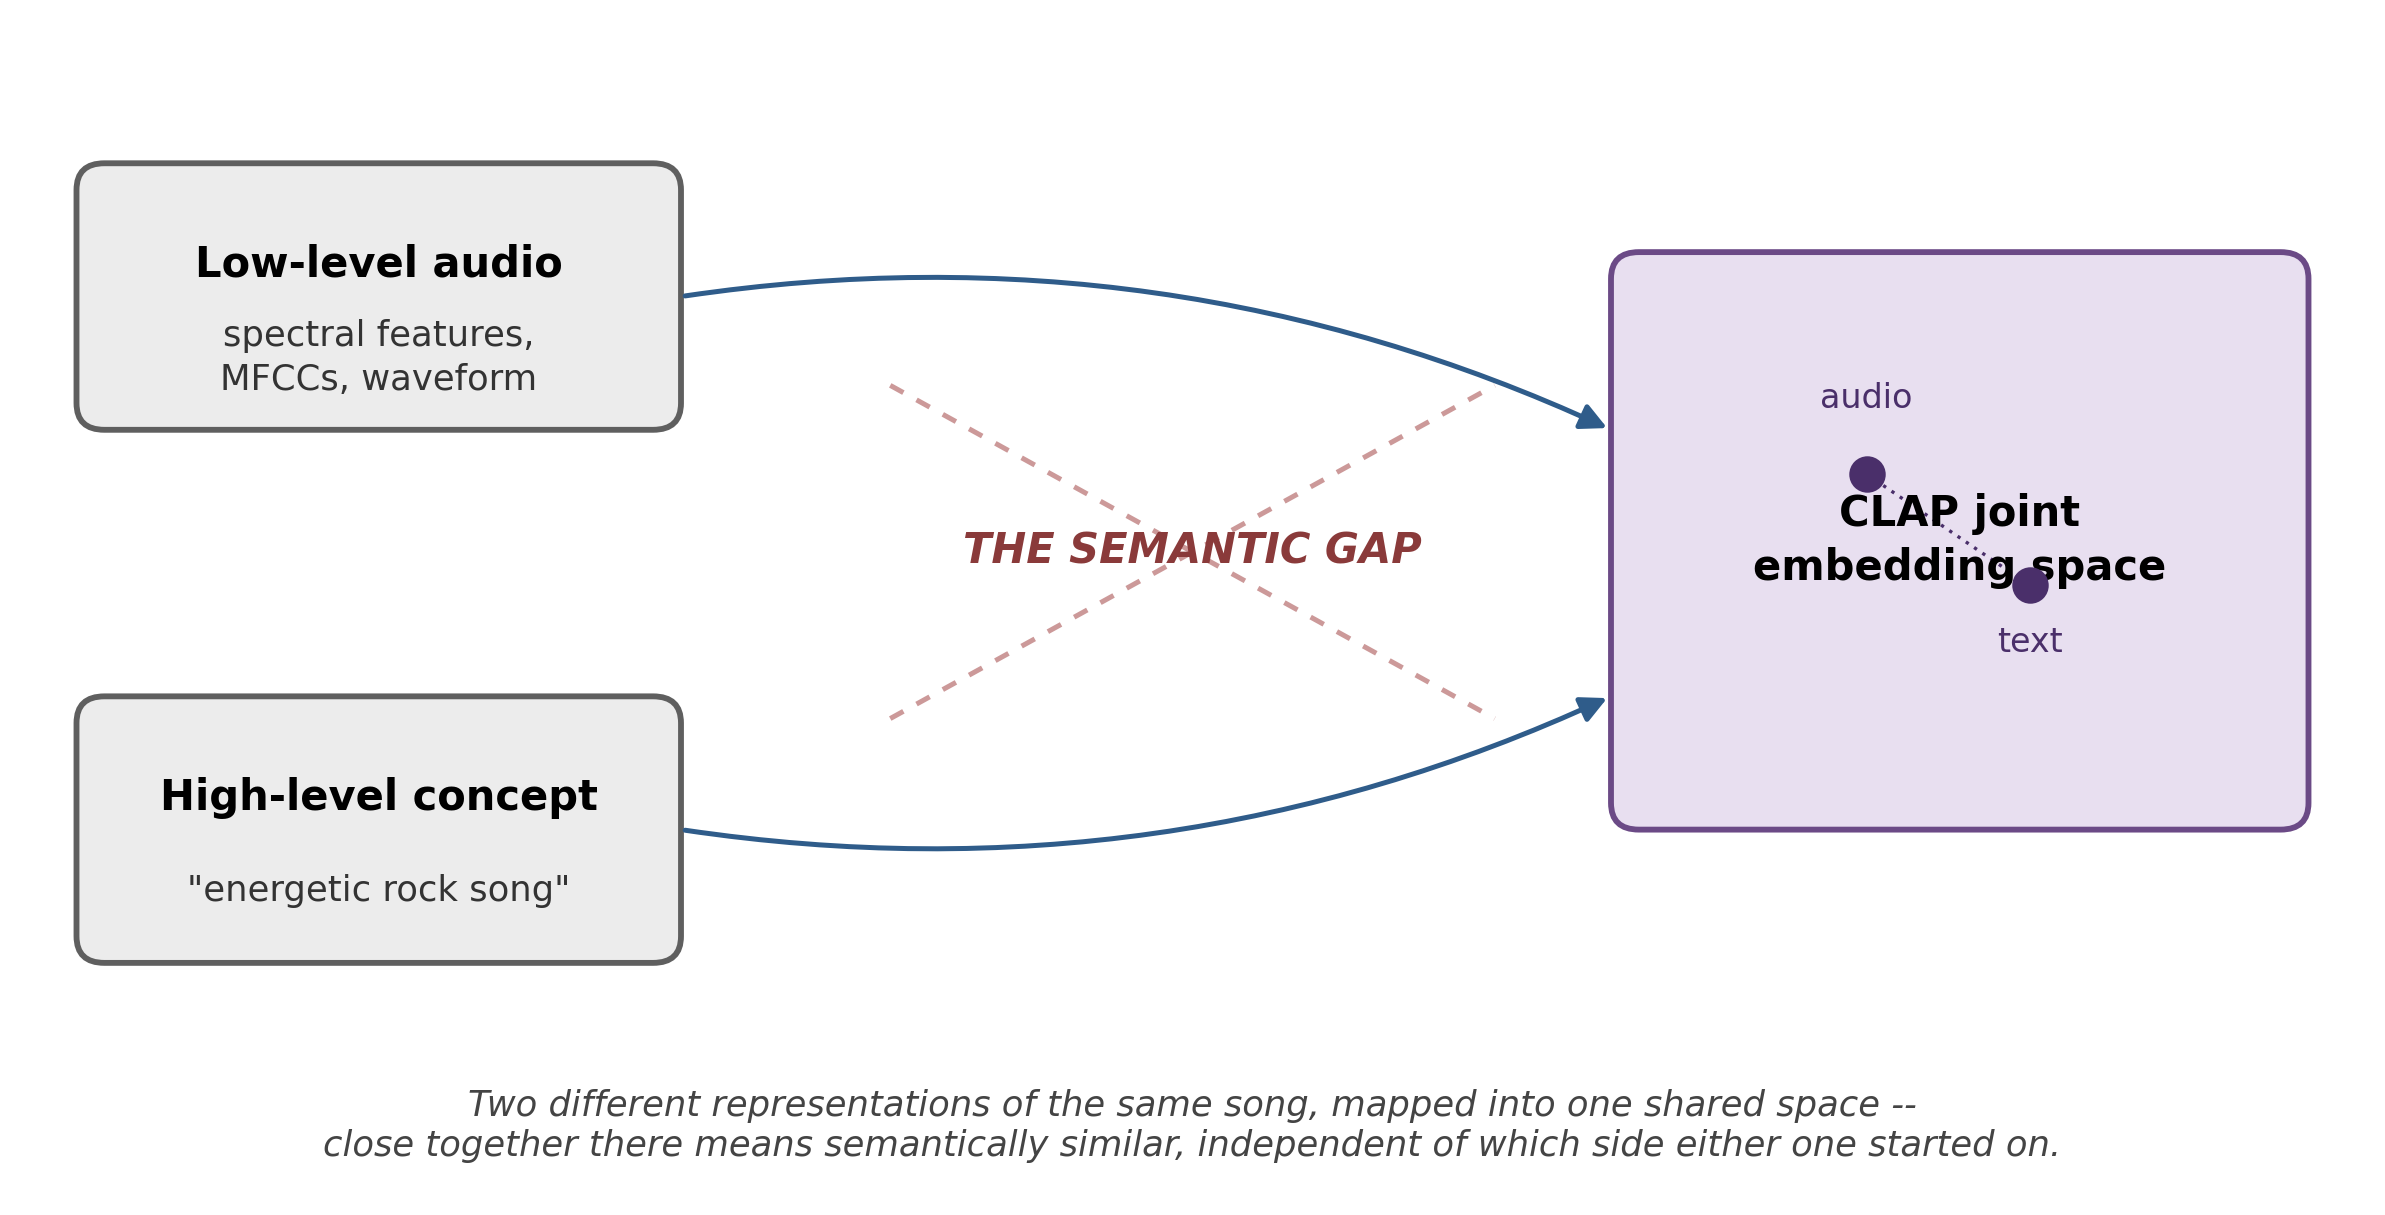
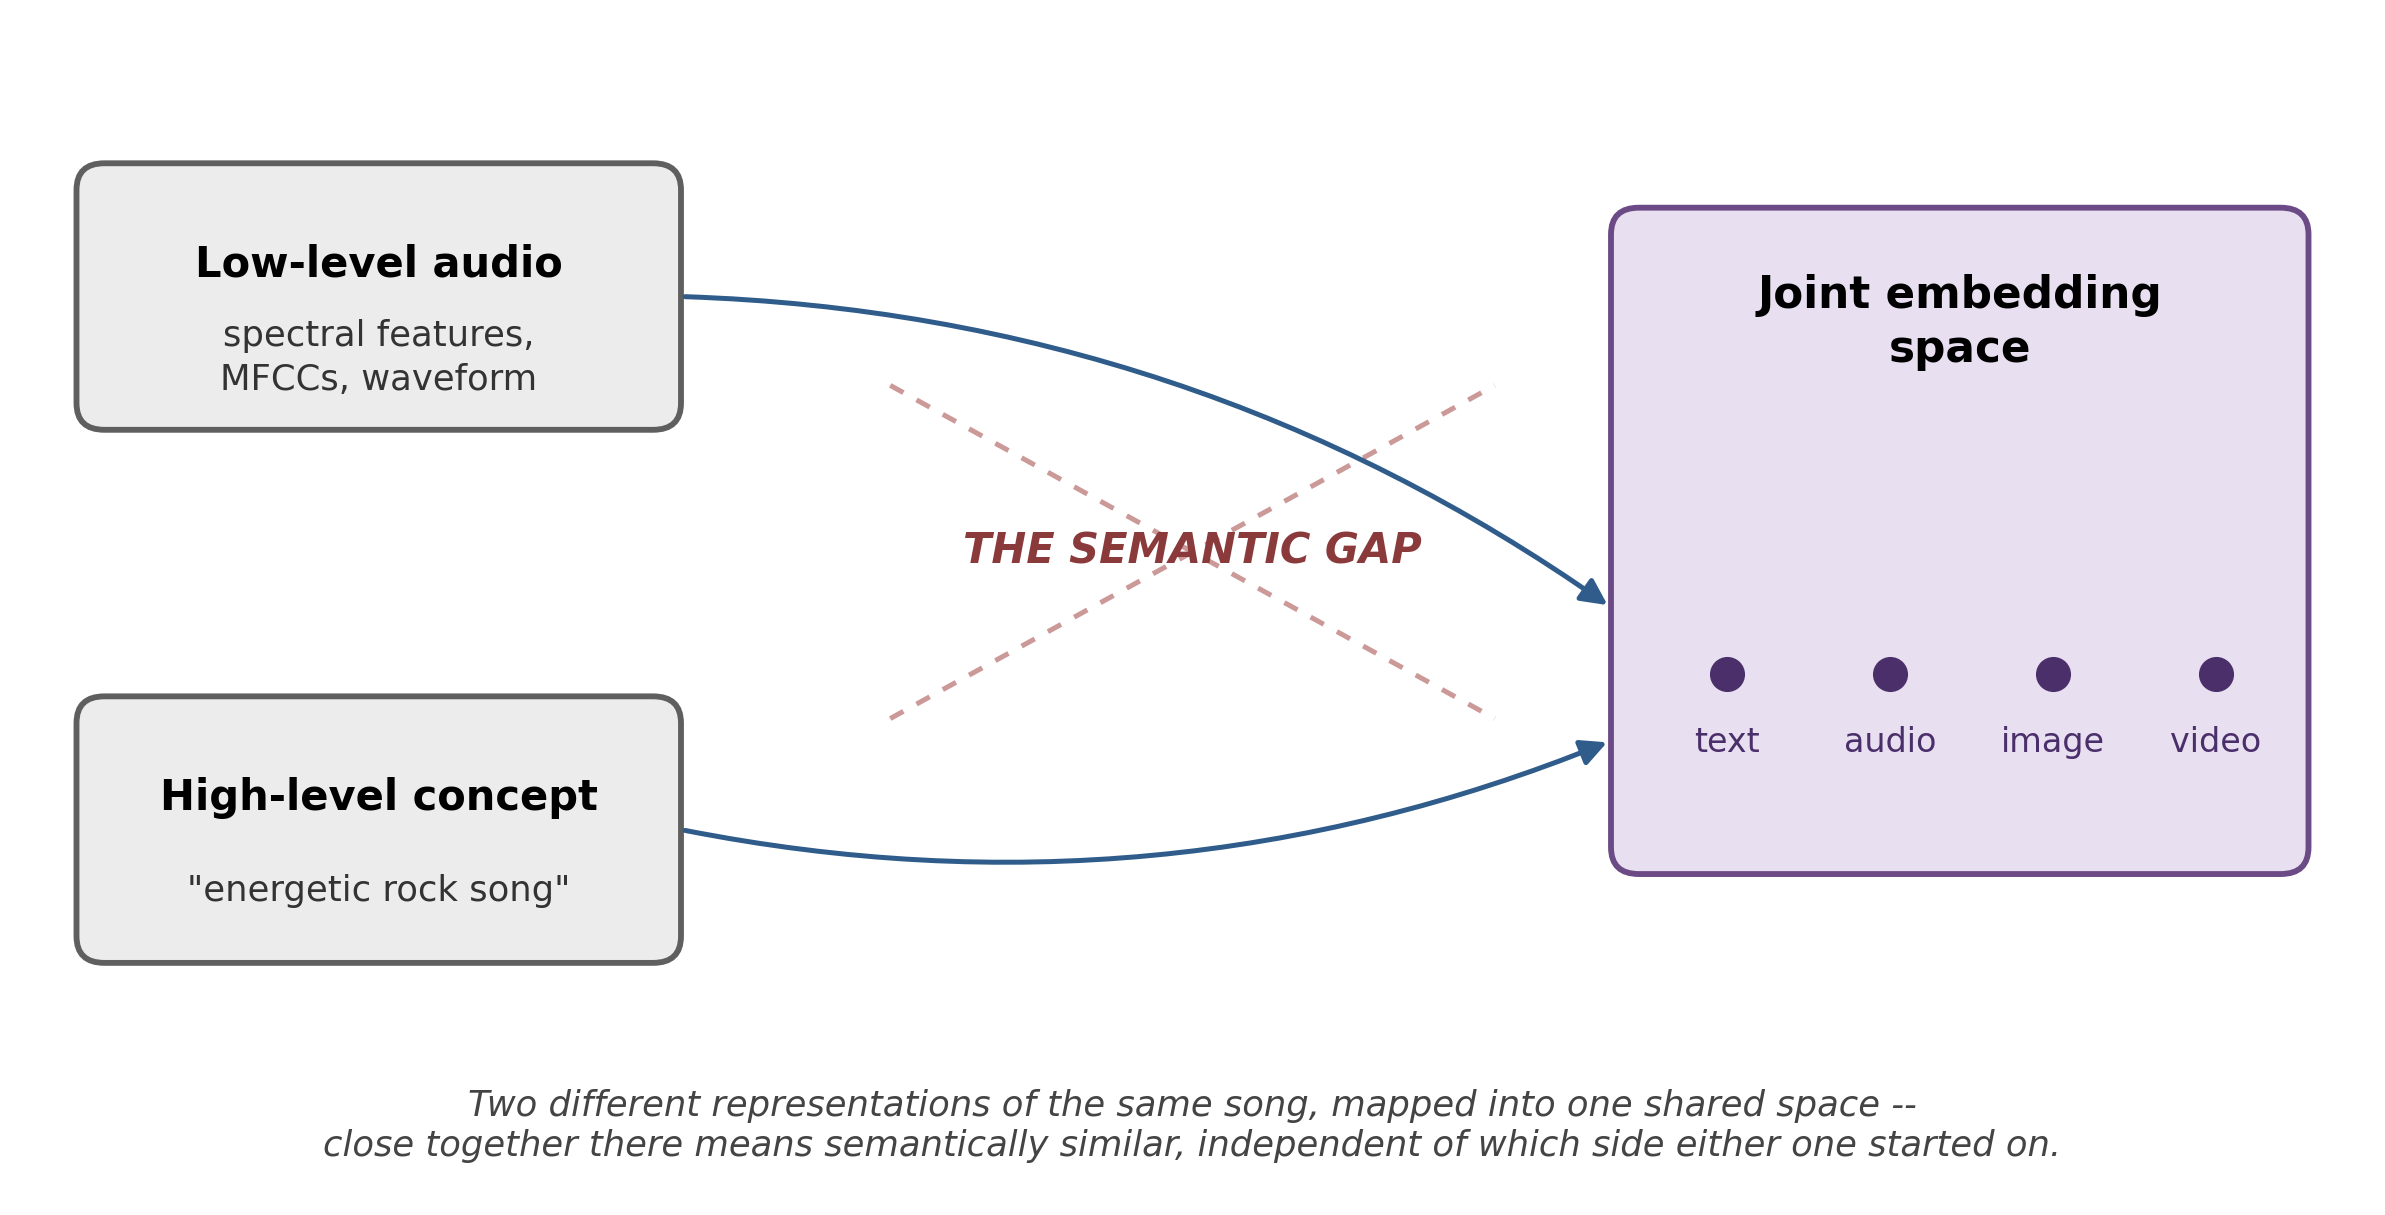
docs(thesis): fix three figure layout issues
- Figure 3.1: retitled the hub "Joint embedding space" (was "CLAP joint
  embedding space") and replaced the two-point audio/text scatter with
  four modality points (text, audio, image, video) in a row below the
  title -- title is now placed at the top of the box rather than
  vertically centered, so it can't collide with the points regardless
  of how many there are. Updated the surrounding prose and caption:
  CLAP is this thesis's own text-audio instance of the space; image and
  video are marked to show the mechanism generalizing, not something
  the enrichment layer implements for those modalities.
- Figure 6.9: the "Listening session" -> "behavioral-events" arrow
  landed at x=35.5, well inside the behavioral-events box (which starts
  at x=23) rather than at its edge. Fixed to land at x=23.
- Figure 6.1: "behavioral-events" was one line of text in an 8-unit-wide
  vertical spine box, wider than the box itself. Split to "behavioral\nevents".

Verified by regenerating and visually inspecting all three affected
figures before rebuilding the thesis (84 pages, unchanged -- image
content only).

diff --git a/thesis/figures/make_82_diagrams.py b/thesis/figures/make_82_diagrams.py
@@ -156,7 +156,7 @@ def fig_runtime():
     arrow(ax, (17, 67), (20, 67))
 
     # --- Kafka spine -----------------------------------------------------
-    box(ax, 40, 28, 8, 56, "behavioral-events", None, "broker", fs=10)
+    box(ax, 40, 28, 8, 56, "behavioral\nevents", None, "broker", fs=10)
     ax.text(44, 25.5, "Kafka topic\n(never purged)", ha="center", va="top",
             fontsize=8, color="#8a6318")
     arrow(ax, (36, 67), (40, 67), "produce", ly=3.4)
@@ -393,7 +393,7 @@ def fig_uc83_design():
         "read-only, Redis only\nrequest/response\n(stage 16)", fs=9.5, sub_fs=7.5)
     box(ax, 112, 28, 11, 15, "Client", None, "external", fs=9.5)
 
-    for x0, x1 in ((18, 35.5), (38, 43), (64, 69), (88, 93), (109, 112)):
+    for x0, x1 in ((18, 23), (38, 43), (64, 69), (88, 93), (109, 112)):
         arrow(ax, (x0, 35.5), (x1, 35.5))
 
     # --- the whole of 8.3's coupling to the platform: two arrows ----------
@@ -706,15 +706,25 @@ def fig_semantic_gap():
     ax.plot([37, 63], [30, 15], color="#c99", lw=1.2, linestyle=(0, (3, 3)))
     ax.plot([37, 63], [15, 30], color="#c99", lw=1.2, linestyle=(0, (3, 3)))
 
-    hub = box(ax, 68, 10, 30, 26, "CLAP joint\nembedding space", style="compute", fs=10)
-    cx, cy = hub[0] + hub[2] / 2, hub[1] + hub[3] / 2
-    ax.scatter([cx - 4, cx + 3], [cy + 3, cy - 2], s=60, color="#4a2f6a", zorder=5)
-    ax.text(cx - 4, cy + 6, "audio", ha="center", fontsize=8, color="#4a2f6a")
-    ax.text(cx + 3, cy - 5, "text", ha="center", fontsize=8, color="#4a2f6a")
-    ax.plot([cx - 4, cx + 3], [cy + 3, cy - 2], color="#4a2f6a", lw=0.8, linestyle=(0, (1, 2)))
+    hub = box(ax, 68, 8, 30, 30, "", style="compute")
+    hx0, hy0, hw, hh = hub
+    cx = hx0 + hw / 2
+    # Title placed near the top of the box, not vertically centered, so it
+    # cannot collide with the four modality points below regardless of how
+    # many there are -- box()'s own centered title is what the original
+    # two-point version got away with and four points would not have.
+    ax.text(cx, hy0 + hh - 3, "Joint embedding\nspace", ha="center", va="top",
+            fontsize=10.5, fontweight="bold", linespacing=1.3)
 
-    arrow(ax, (28, 34), (68, 28), color="#2f5c8a", rad=-0.15)
-    arrow(ax, (28, 10), (68, 16), color="#2f5c8a", rad=0.15)
+    dot_y = hy0 + 9
+    label_y = dot_y - 3.5
+    modalities = [("text", hx0 + 5), ("audio", hx0 + 12), ("image", hx0 + 19), ("video", hx0 + 26)]
+    for name, x in modalities:
+        ax.scatter([x], [dot_y], s=55, color="#4a2f6a", zorder=5)
+        ax.text(x, label_y, name, ha="center", fontsize=8, color="#4a2f6a")
+
+    arrow(ax, (28, 34), (hx0, dot_y + 3), color="#2f5c8a", rad=-0.15)
+    arrow(ax, (28, 10), (hx0, dot_y - 3), color="#2f5c8a", rad=0.15)
 
     ax.text(50, -5, "Two different representations of the same song, mapped into one shared space --\nclose together there means semantically similar, independent of which side either one started on.",
             ha="center", va="bottom", fontsize=8.5, color="#444444", style="italic")

diff --git a/thesis/03-state-of-the-art.md b/thesis/03-state-of-the-art.md
@@ -10,9 +10,9 @@ Music Information Retrieval (MIR) is the foundational research area underlying t
 
 Recent work bridges the semantic gap using contrastive learning between modalities. CLAP (Contrastive Language-Audio Pretraining) [10] maps audio and text into a joint embedding space by training on paired audio-caption data, enabling zero-shot classification and semantic retrieval without a fixed label taxonomy, and is the model adopted in this thesis's enrichment layer. CLAP sits within a broader lineage of audio-to-joint-embedding methods rather than standing alone: Wav2CLIP [11] distills CLIP's image-text space onto audio directly, without requiring paired audio-text data of its own; MuLan [12] trains a music-specific joint embedding on 44 million audio-text pairs, at a scale and specificity closer to production music search than CLAP's general-purpose audio-event coverage; and AudioCLIP [13] extends CLIP to a tri-modal image-text-audio space rather than a bimodal audio-text one. CLAP was adopted over these alternatives primarily for its openly available pretrained checkpoints and its general-purpose, not music-specific, training distribution, which keeps the enrichment layer usable if the pipeline is later extended to non-music audio. CLaMP 2 [14] extends cross-modal MIR across 101 languages using large-language-model-generated captions, relevant to future multilingual metadata enrichment though not exercised on this thesis's English-language seed dataset. HTCL [15] bridges a semantic embedding space and a user-preference space specifically for recommendation through a two-stage contrastive objective, conceptually adjacent to this thesis's ranking design, which likewise combines a content-semantic signal (CLAP similarity) with graph-derived, preference-adjacent signals (genre-sibling, same-artist) rather than relying on either alone.
 
-The semantic gap itself, named in Chapters 1 and 2 but not yet drawn, is exactly what this contrastive-learning family closes. Figure 3.1 makes the mechanism concrete: an audio representation and a plain-language description of the same song start in two incompatible spaces, and CLAP's joint embedding is what lands them close together in one shared space, where distance means semantic similarity regardless of which side either representation started on. This is also the literal mechanism behind "zero-shot classification" wherever this thesis uses it, including use case 8.3's live classifier (Section 6.2.3): a track's audio embedding compared against text-prompt embeddings for candidate genre labels, with no trained classifier of its own.
+The semantic gap itself, named in Chapters 1 and 2 but not yet drawn, is exactly what this contrastive-learning family closes. Figure 3.1 makes the mechanism concrete: an audio representation and a plain-language description of the same song start in two incompatible spaces, and a joint embedding is what lands them close together in one shared space, where distance means semantic similarity regardless of which side either representation started on. CLAP is this thesis's own instance of that space, built from an audio-text pair; the figure marks text, audio, image and video together to show the same mechanism generalizing across modalities, exactly the family Wav2CLIP and AudioCLIP (above) already extend it to and Section 3.6 discusses for image and video specifically. This is also the literal mechanism behind "zero-shot classification" wherever this thesis uses it, including use case 8.3's live classifier (Section 6.2.3): a track's audio embedding compared against text-prompt embeddings for candidate genre labels, with no trained classifier of its own.
 
-![Figure 3.1: The semantic gap, bridged by a joint embedding space. Two representations of the same song, mapped into one shared space by CLAP -- proximity there is what "semantically similar" means mechanically, independent of whether either representation started as audio or as text.](figures/fig-3-1-semantic-gap.png){width=6.2in}
+![Figure 3.1: The semantic gap, bridged by a joint embedding space. Two representations of the same song, mapped into one shared space -- proximity there is what "semantically similar" means mechanically, independent of which side either representation started on. CLAP is this thesis's own text-audio instance; image and video are marked to show the same mechanism generalizing, not something this thesis's enrichment layer implements for those modalities.](figures/fig-3-1-semantic-gap.png){width=6.2in}
 
 ## 3.3 Vector Databases and Approximate Nearest-Neighbor Search
 
